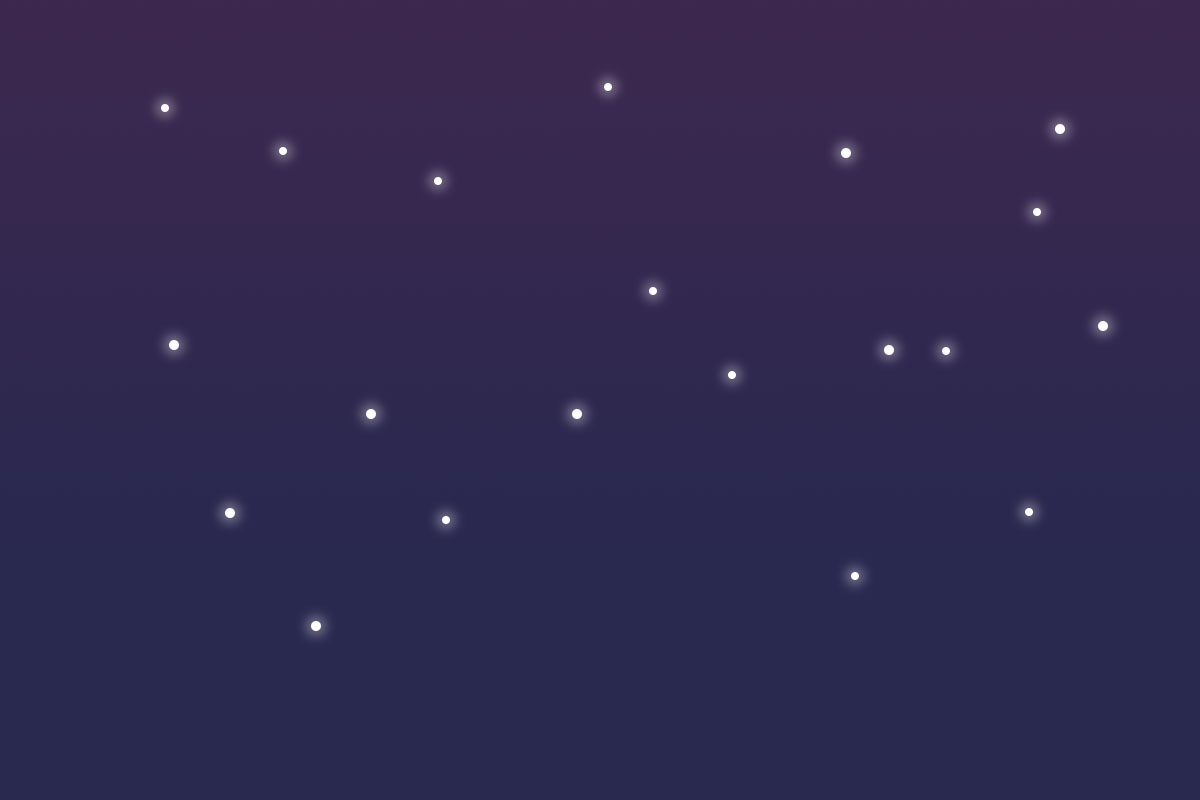
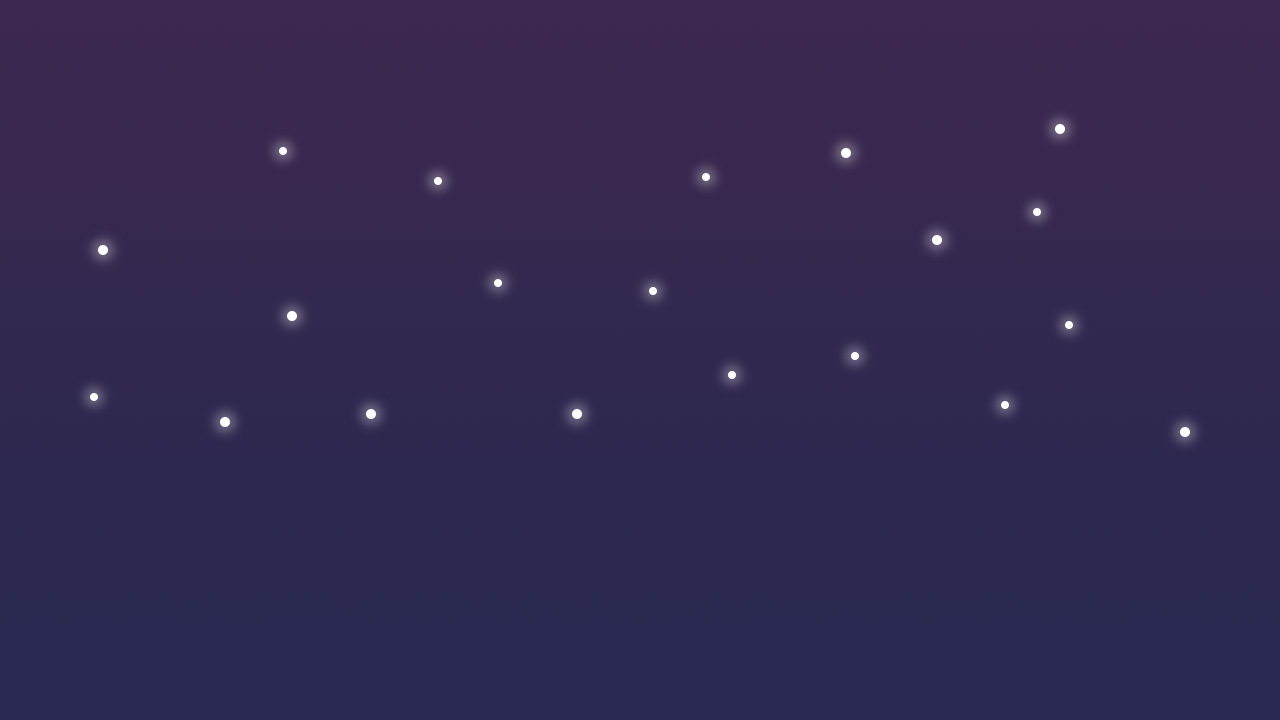
성보: 불필요 이미지 제거, 이미지 최적화

diff --git a/Final_vp/sketch.js b/Final_vp/sketch.js
@@ -8,7 +8,7 @@ let div_total_people = 0;
 
 let star = [];
 
-let house_position_y = 555; //집 초기 좌표
+let house_position_y = 470; //집 초기 좌표
 let bridge_position_y = 1000; // 다리 초기 좌표
 let train_position_x = 1200; // 기차 초기 좌표
 let moon_position_y = 800;
@@ -27,29 +27,30 @@ let line = []; // 노선도 배열
 let lineNumBtn = []; // 호선 버튼 배열
 let lineNumBtnFlag = []; // 호선 선택 여부 버튼
 
-let index = 0;
+let index = 300;
+let i = 0;
 
 function setup() {
-  createCanvas(1200, 800); // 캔버스 크기 설정
+  createCanvas(1280, 720); // 캔버스 크기 설정
 
   //star = loadImage('star.png');
-  bg = loadImage('background_lite.jpg'); // 배경 이미지 로드
-//  bg.style('z-index','-1');
-  house = loadImage('house_2.png'); // 집 이미지 로드
-  bridge = loadImage('bridge_2.png'); // 다리 이미지 로드
-  train = loadImage('train_2.png'); // 기차 이미지 로드
+  bg = loadImage('background.jpg'); // 배경 이미지 로드
+  //  bg.style('z-index','-1');
+  house = loadImage('house_3.png'); // 집 이미지 로드
+  bridge = loadImage('bridge.png'); // 다리 이미지 로드
+  train = loadImage('train.png'); // 기차 이미지 로드
   moon = loadImage('moon.png');
 
-  line[0] = loadImage('line4_2.png');
-  line[1] = loadImage('line4_2.png');
-  line[2] = loadImage('line4_2.png');
-  line[3] = loadImage('line4_2.png'); // 4호선 이미지 로드
-  line[4] = loadImage('line7_2.png');
-  line[5] = loadImage('line7_2.png'); // 7호선 이미지 로드
-  line[6] = loadImage('line7_2.png'); // 7호선 이미지 로드
-  line[7] = loadImage('line7_2.png'); // 7호선 이미지 로드
-  line[8] = loadImage('line7_2.png'); // 7호선 이미지 로드
-  line[9] = loadImage('line7_2.png'); // 7호선 이미지 로드
+  line[0] = loadImage('ready_img.png');
+  line[1] = loadImage('ready_img.png');
+  line[2] = loadImage('ready_img.png');
+  line[3] = loadImage('line4.png'); // 4호선 이미지 로드
+  line[4] = loadImage('ready_img.png');
+  line[5] = loadImage('ready_img.png'); // 7호선 이미지 로드
+  line[6] = loadImage('line7.png'); // 7호선 이미지 로드
+  line[7] = loadImage('ready_img.png'); // 7호선 이미지 로드
+  line[8] = loadImage('ready_img.png'); // 7호선 이미지 로드
+  line[9] = loadImage('ready_img.png'); // 7호선 이미지 로드
 
   lineNumBtn[0] = createImg('lineNumBtn/line1Btn.png'); // 호선 버튼 로드
   lineNumBtn[1] = createImg('lineNumBtn/line2Btn.png');
@@ -79,9 +80,13 @@ function setup() {
 
 function draw() {
   background(bg); // 배경 설정
-//  bg.position(0,0);
+  //  bg.position(0,0);
   image(house, 0, house_position_y); // 집 출력
-  
+
+  if (mouseIsPressed) {
+    print(mouseX, mouseY);
+  }
+
   for (let i = 0; i < 10; i++) { // 버튼 이미지 출력
     lineNumBtn[i].position(lineAreaX + (i * 150), 0);
     lineNumBtn[i].size(80, 80);
@@ -90,6 +95,7 @@ function draw() {
   for (let i = 0; i < 10; i++) { // 호선의 갯수 만큼 포문 돈다. ex) 1호선 ~ 분당선
     lineNumBtn[i].mousePressed(function() { // 해당 호선 버튼 클릭시
       frameRate(60);
+
       if (star_show == 1) {
         star_show = 0;
         for (let i = 0; i < 10; i++) {
@@ -97,7 +103,7 @@ function draw() {
           star[i].hide();
         }
       }
-      house_position_y = 555; // 집 위치 초기화
+      house_position_y = 470; // 집 위치 초기화
       bridge_position_y = 1000; // 다리 위치 초기화
       moon_position_y = 800;
       train_position_x = 1200; // 기차 위치 초기화
@@ -116,14 +122,14 @@ function draw() {
     if (lineNumBtnFlag[i] == 1) { // 해당 호선 버튼을 클릭 했을 경우
       if (houseDownFlag == 1) { // 만약에 houseDownFlag값이 1일 경우
         tint(255, 255 - (house_position_y / 3)); // 하우스 플래그 작동 시 노선도 투명도 조정 어둡게
-        image(line[i], 100, 110, 1200 * 0.85, 800 * 0.85); // 노선도 이미지 출력
+        image(line[i], 130, 90); // 노선도 이미지 출력
       } else {
-        if (house_position_y == 555) { // hy값이 555일 경우
+        if (house_position_y == 470) { // hy값이 470일 경우
           if (lineTintCount < 255) // 노선도 점점 밝게 해줌.
             lineTintCount += 20;
 
           tint(255, 255, 255, lineTintCount); // 노선도 점점 밝게 해줌.
-          image(line[i], 100, 110, 1200 * 0.85, 800 * 0.85); // 노선도 이미지 출력
+          image(line[i], 130, 90); // 노선도 이미지 출력
         }
       }
     }
@@ -133,7 +139,7 @@ function draw() {
 
   if (houseDownFlag == 0 && mouseIsPressed) { // 기차가 들어오기 전 이면서 마우스 클릭했을 경우(아직 호선 선택 이전)
     if (lineNumBtnFlag[3] == 1) { // 4호선 버튼을 선택 했고
-      if ((mouseX > 420 && mouseX < 445) && (mouseY > 440 && mouseY < 460)) // 과천 클릭 시
+      if ((mouseX > 475 && mouseX < 490) && (mouseY > 335 && mouseY < 350)) // 과천 클릭 시
         station_Click_Flag = 1; // 역을 클릭했다는 정보 관련 변수 참으로 변환
     } else if (lineNumBtnFlag[6] == 1) { // 7호선 버튼을 선택 했고
     }
@@ -146,14 +152,14 @@ function draw() {
   }
 
   if (moon_fadein_Flag == 1) {
-    if (moon_position_y >= 100)
+    if (moon_position_y >= 90)
       moon_position_y -= 45;
 
     else {
       star_fadein_Flag = 1;
     }
 
-    image(moon, 1000-moon_position_y*1.4, moon_position_y);
+    image(moon, 1000 - moon_position_y * 1.4, moon_position_y);
   }
 
   if (star_fadein_Flag == 1) {
@@ -162,27 +168,43 @@ function draw() {
         star[i].show();
       }
     }
+
+
     star_show = 1;
+
     for (let i = 0; i < total_people; i++) {
       frameRate(3);
       strokeWeight(0);
-      star[int(random(0,10))].position(random(100, 800), random(150, 600));
+      star[int(random(0, 10))].position(random(100, 800), random(150, 600));
 
     }
   }
 
   if (bridgeUpFlag == 1) { // bridgeUpFlag 변수가 참값일 경우
-    if (bridge_position_y >= 645)
-      bridge_position_y -= 25;
 
-    if (train_position_x >= 70)
+    if (bridge_position_y >= 560)
+    {
+      bridge_position_y -= 25;
+    }
+
+
+
+    if (train_position_x >= 120)
       train_position_x -= 25;
 
     else
       moon_fadein_Flag = 1;
 
     image(bridge, 0, bridge_position_y);
-    image(train, train_position_x, 555);
+    image(train, train_position_x, 550);
+
+
+
+
+
+
+
+
   }
 
 
